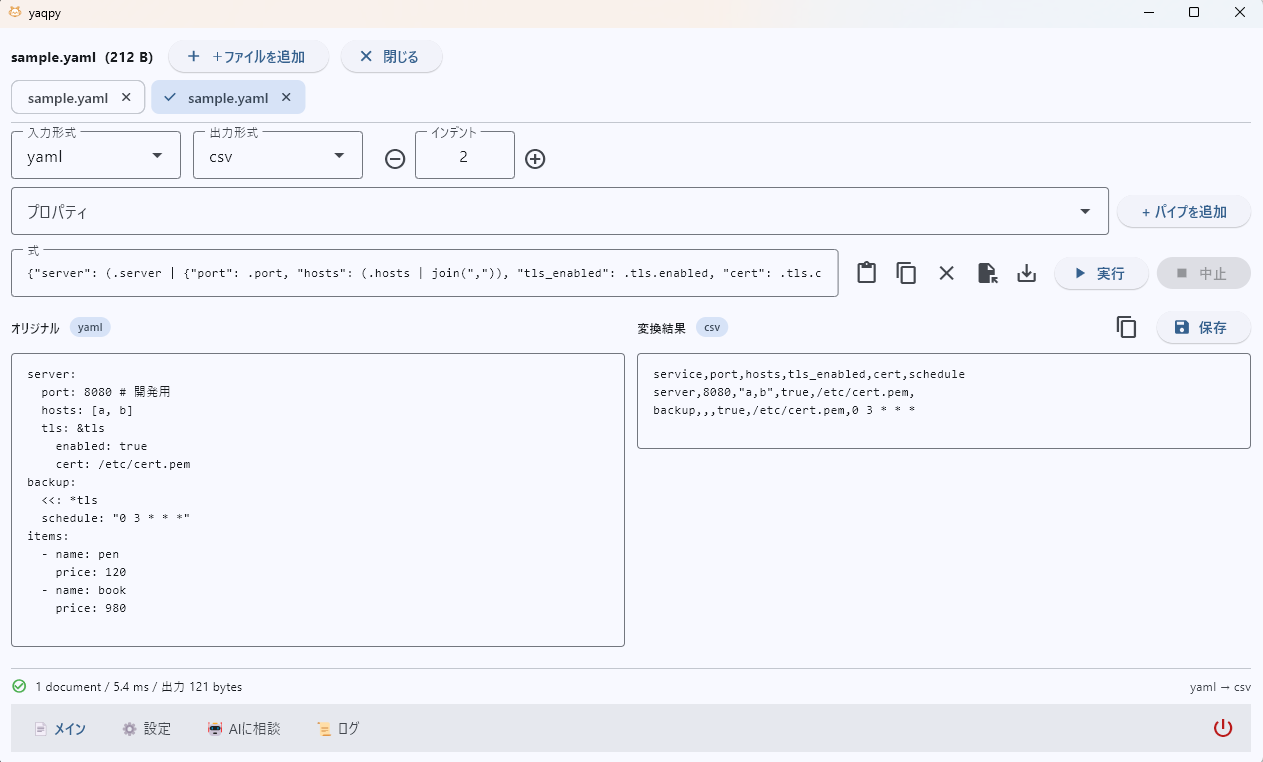
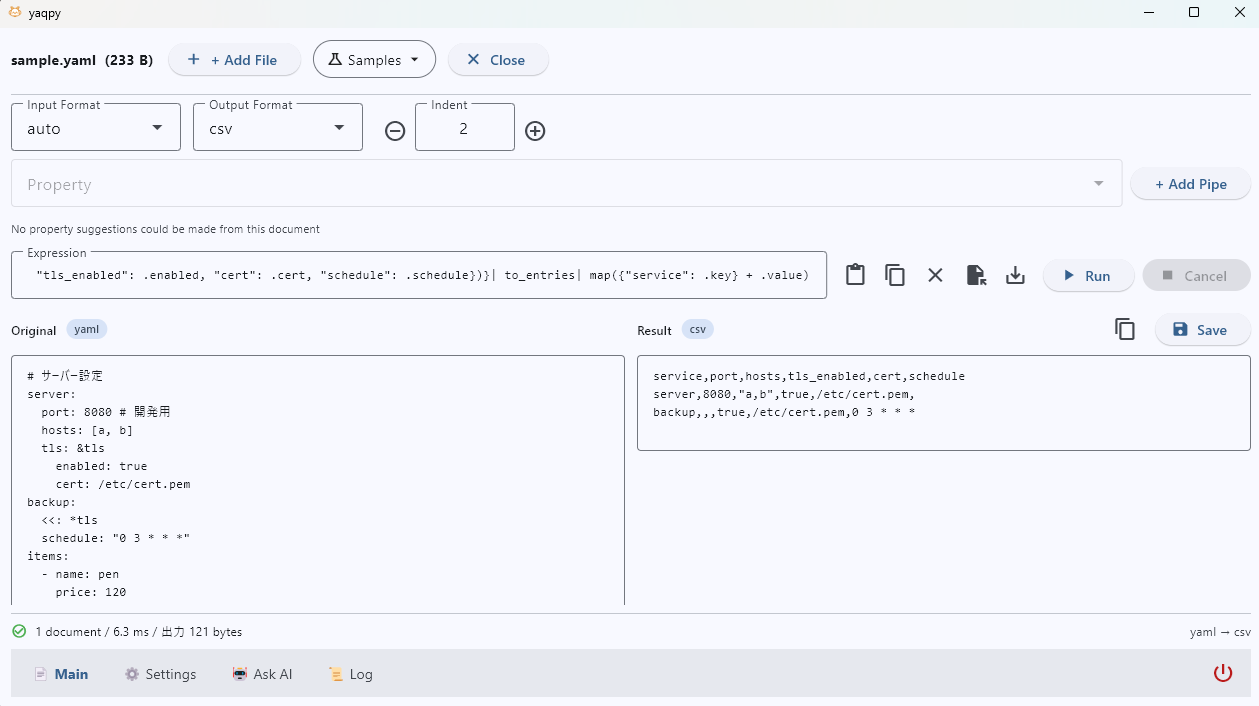
docs:update install procedure in README and USAGE-GUI

diff --git a/USAGE-GUI.ja.md b/USAGE-GUI.ja.md
@@ -31,19 +31,23 @@ YAML / JSON のファイルを開いて、**必要な部分だけを取り出し
 [toTop](#toreadme)
 ## 1. 起動する
 
-**PyPI から入れる場合**（GitHub のリリースから入れる方法などは [README のインストール](README.ja.md#インストール)）
+### PyPI から入れる場合
+**（GitHub のリリースから入れる方法などは [README のインストール](README.ja.md#インストール)）**
 
 ```bash
-pip install "yaqpy[gui]"          # または: uv tool install "yaqpy[gui]" --with flet-desktop
+pip install "yaqpy[gui]"
+# uv tool install "yaqpy[gui,web]" --with flet-desktop # `uv tool install`で入れる場合
 yaqpy-gui                 # 専用コマンドで起動
 yaqpy --gui               # こちらでも同じ画面が開きます
 ```
+
+![image:yaqpy GUI](https://raw.githubusercontent.com/sgtao/yaqpy/main/assets/images/screenshot-yaqpy-gui.png)
 
 すでに GUI なしで入れている場合は、部品（flet）だけを足すこともできます：`pip install "flet>=1.0,<2"`。
 
 > **`uv tool install` / `uvx` で入れる場合は `--with flet-desktop` を付けてください。** 付けずに入れると、`yaqpy-gui` の初回起動時に Flet が `flet-desktop`（窓を描画する部品）を自動で入れようとしますが、その先が `yaqpy` 用の隔離環境とは別の場所（実行時のカレントディレクトリ付近の無関係な `.venv` など）になることがあります。この場合「OK」と表示されたのに `ModuleNotFoundError: No module named 'flet_desktop'` で起動に失敗します（[12 章](#12-困ったときqa)）。
 
-**リポジトリを clone した場合**
+### リポジトリを clone した場合
 
 ```bash
 uv sync --extra gui       # GUI を使うときだけ、部品（flet）が入ります

diff --git a/README.md b/README.md
@@ -59,8 +59,8 @@ pip install "yaqpy[web]"            # + the GUI in a web browser (adds Flet and 
 With [uv](https://docs.astral.sh/uv/):
 
 ```bash
-uv tool install yaqpy               # install the yaqpy command
 uv tool install "yaqpy[gui,web]" --with flet-desktop  # ... with what yaqpy-gui and yaqpy-web need
+uv tool install yaqpy               # install the yaqpy command line (and library) only
 uvx yaqpy '.server.port' config.yaml   # run it once without installing
 uv add yaqpy                        # use it as a library in a uv project
 ```
@@ -117,7 +117,7 @@ yaqpy-web                # the same screens in your browser at http://127.0.0.1:
 yaqpy-web --port 9000    # another port; see yaqpy-web --help for the options
 ```
 
-![image:yaqpy GUI](assets/images/screenshot-yaqpy-gui.png)
+![image:yaqpy GUI](https://raw.githubusercontent.com/sgtao/yaqpy/main/assets/images/screenshot-yaqpy-gui.png)
 
 The web version listens on this PC only by default and has no authentication. Files are uploaded from the browser and results come back as downloads.
 
